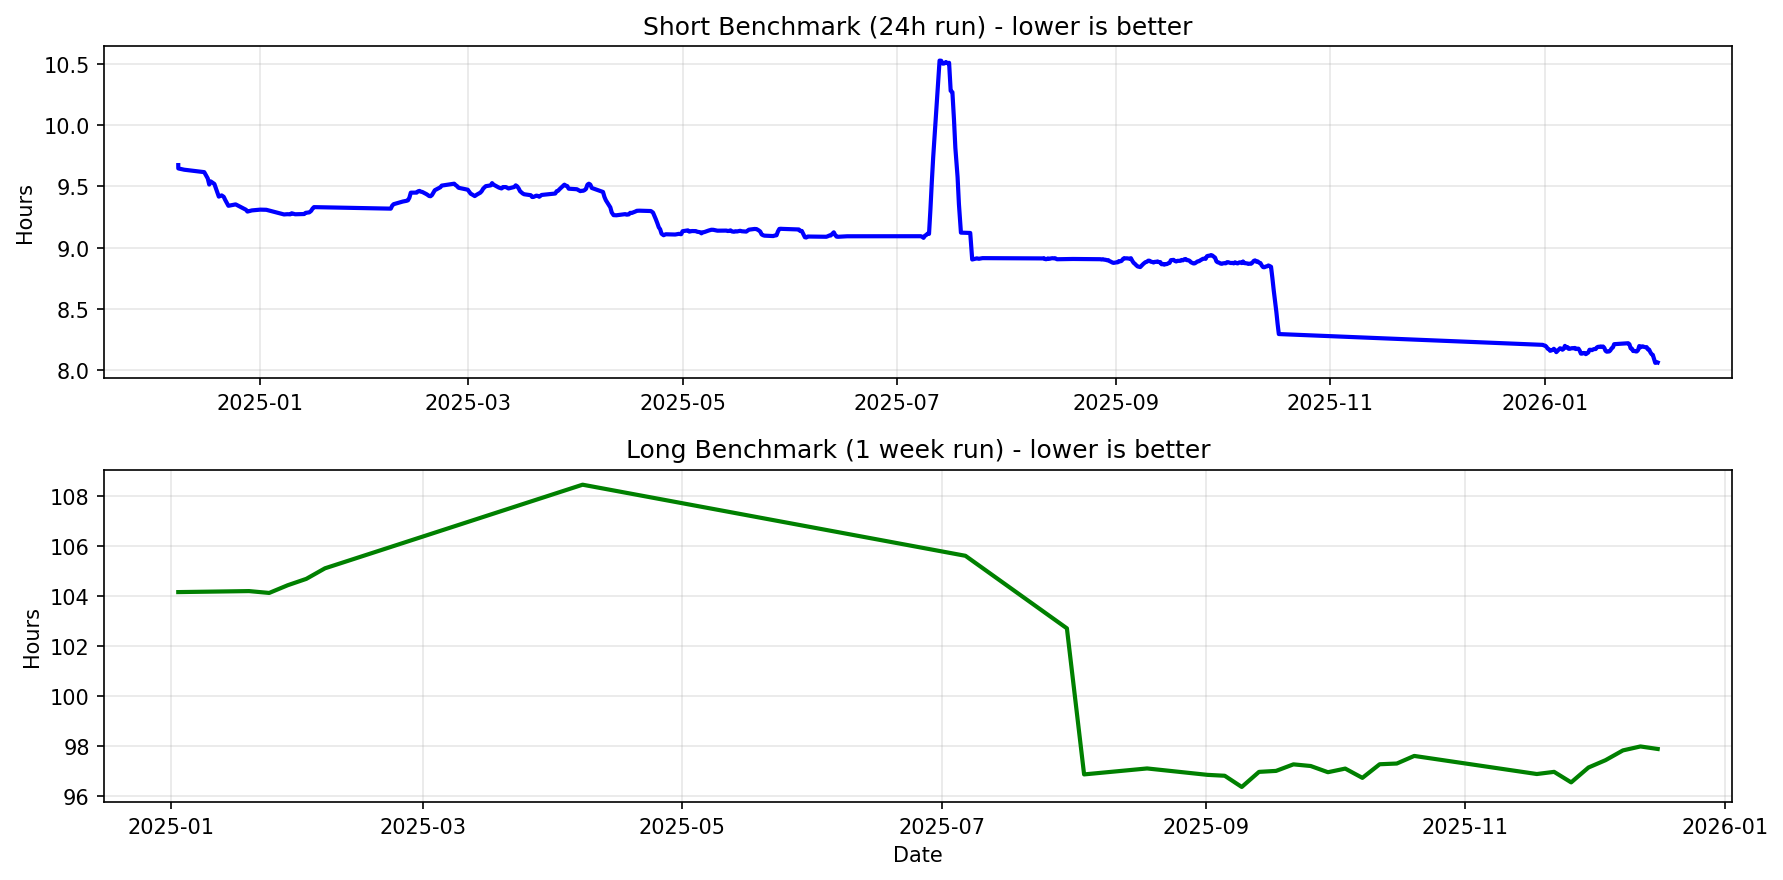
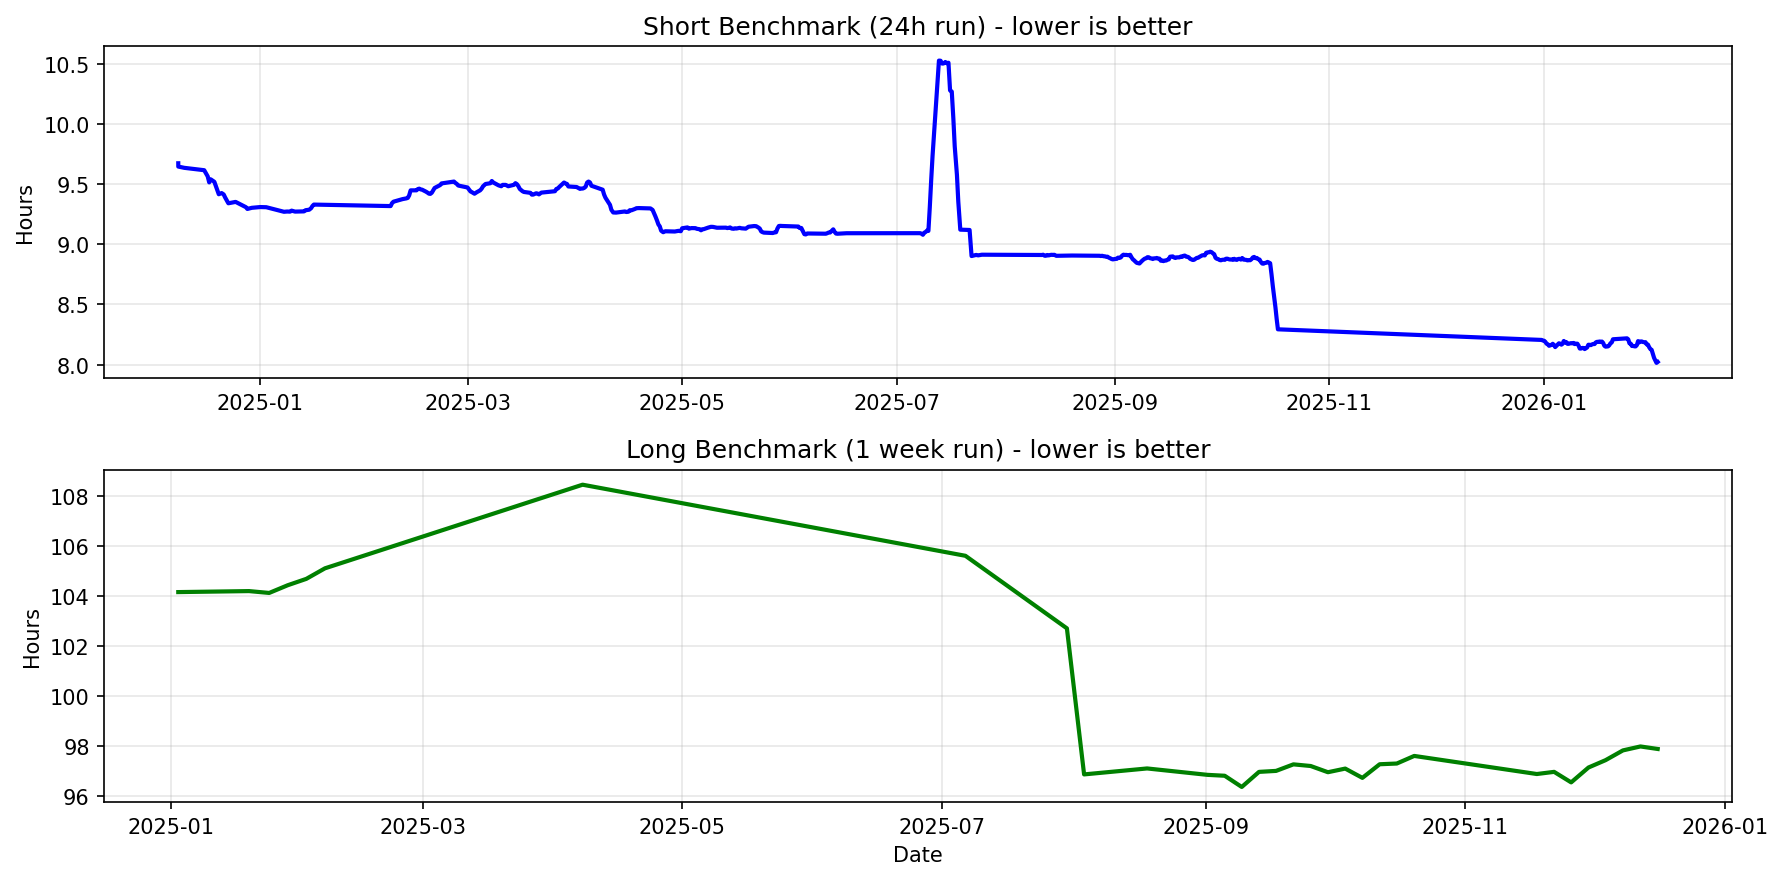
chore: update short benchmark Readme

diff --git a/README.md b/README.md
@@ -12,11 +12,11 @@ This repository contains various eth1 import benchmark metrics.
 
 | Generated At | Baseline SHA | Contender SHA | Baseline Time | Contender Time | Time Delta |
 |--------------|--------------|---------------|---------------|----------------|------------|
+| 2026-02-02 08:17:25 | [67d61541](https://github.com/status-im/nimbus-eth1/commit/67d61541) | [17182b40](https://github.com/status-im/nimbus-eth1/commit/17182b40) | 7h57m23s | 7h56m40s | -43s, -0.15% |
 | 2026-02-02 00:06:21 | [150ffaa1](https://github.com/status-im/nimbus-eth1/commit/150ffaa1) | [67d61541](https://github.com/status-im/nimbus-eth1/commit/67d61541) | 8h8m13s | 7h57m23s | -10m50s, -2.22% |
 | 2026-02-01 15:44:30 | [a4e9ac36](https://github.com/status-im/nimbus-eth1/commit/a4e9ac36) | [150ffaa1](https://github.com/status-im/nimbus-eth1/commit/150ffaa1) | 8h4m44s | 8h8m13s | 3m29s, 0.72% |
 | 2026-02-01 07:26:02 | [1b3a3349](https://github.com/status-im/nimbus-eth1/commit/1b3a3349) | [a4e9ac36](https://github.com/status-im/nimbus-eth1/commit/a4e9ac36) | 8h4m53s | 8h4m44s | -9s, -0.03% |
 | 2026-01-31 23:07:35 | [a07ac78d](https://github.com/status-im/nimbus-eth1/commit/a07ac78d) | [1b3a3349](https://github.com/status-im/nimbus-eth1/commit/1b3a3349) | 8h6m24s | 8h4m53s | -1m30s, -0.31% |
-| 2026-01-31 14:47:36 | [84408c93](https://github.com/status-im/nimbus-eth1/commit/84408c93) | [a07ac78d](https://github.com/status-im/nimbus-eth1/commit/a07ac78d) | 8h5m14s | 8h6m24s | 1m10s, 0.24% |
 
 ## Latest 5 Long Benchmarks (1 Week Run)
 
